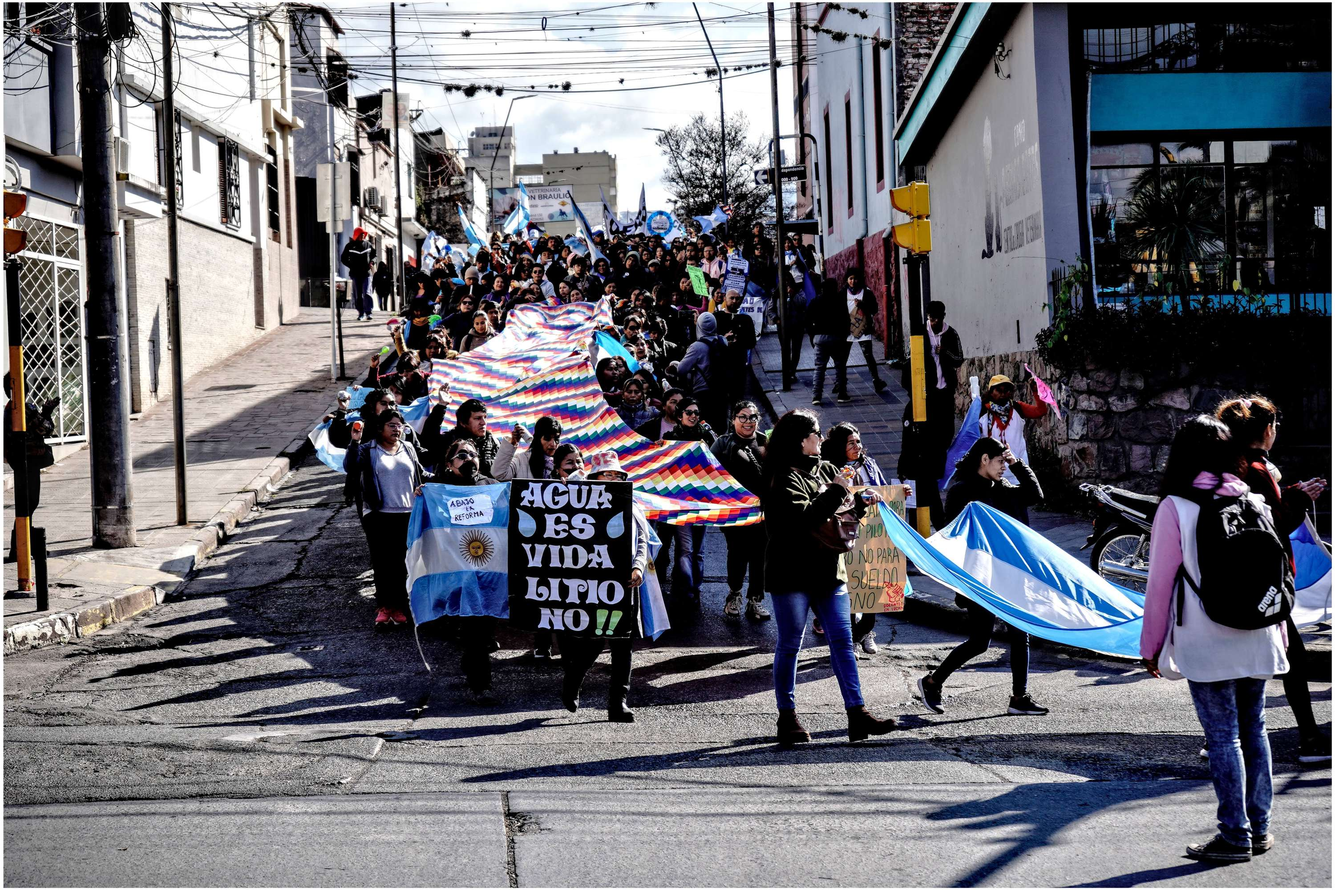
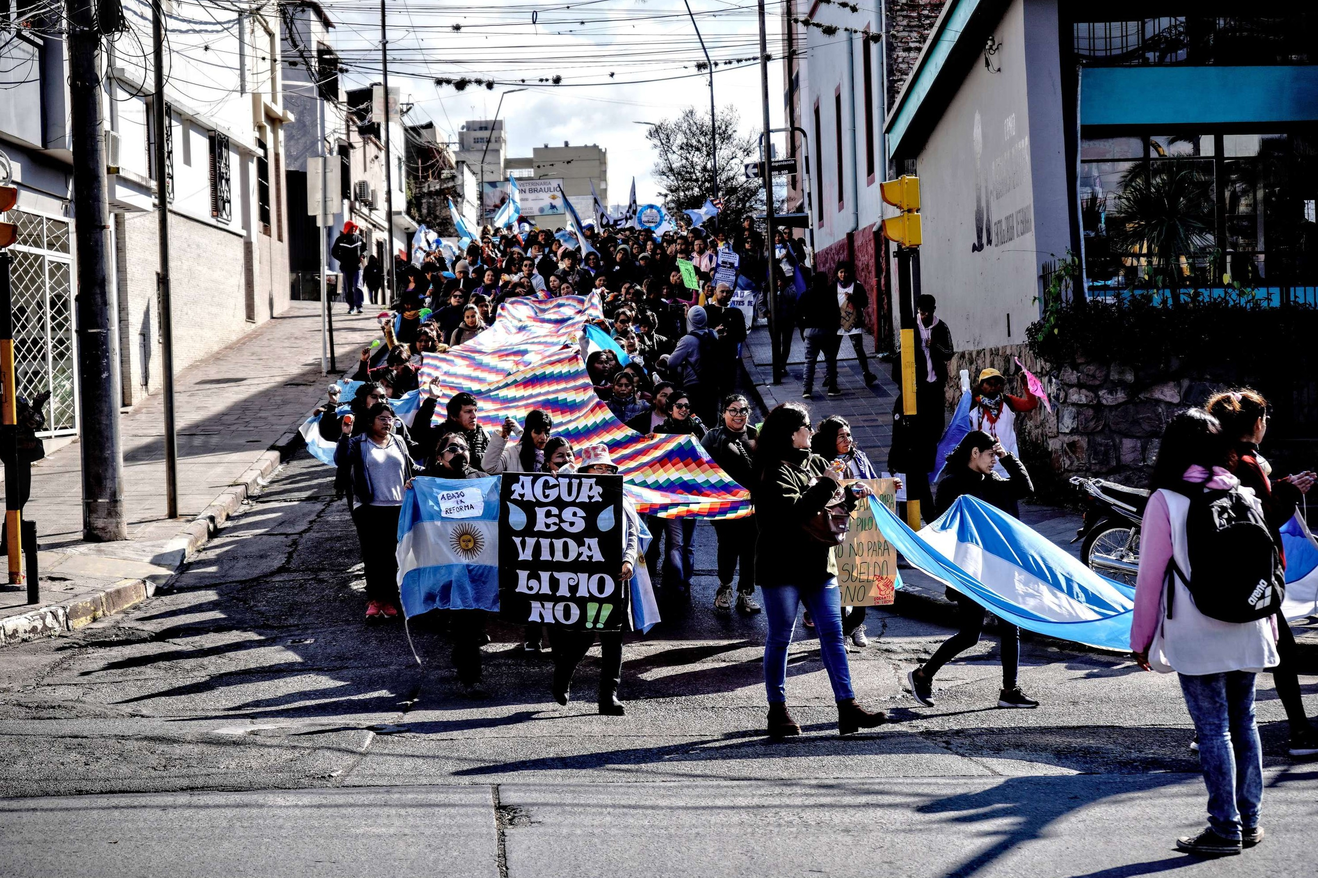
sumo las fotos faltantes

diff --git a/gallery/gallery01/index.html b/gallery/gallery01/index.html
@@ -4,7 +4,7 @@ title: "album"
 description: "masonry"
 active: gallery
 header-img: "img/gallery-bg.jpg"
-album-title: "my 1st album"
+album-title: "Jujuy de pie"
 images:
  - image_path: /gallery/archive/g01/juj01.jpg
    caption: Las salinas de la Puna, una fuente de vida para los pueblos andinos - Puna's salty lakes, a source of life for the andean peoples - Salinas Grandes, 30-07-2023
@@ -71,7 +71,7 @@ images:
    caption: La sal es un filo inmaculado en la planicie encajonada entre los Andes - Salt is an immaculate blade on the plain cradled by the Andes - Santuario de Tres Cruces, 30-07-2023
    copyright: © R. Lisandro Amado
  - image_path: /gallery/archive/g01/juj22.jpg
-   caption: La sal se junta anualmente en pequeñas mesetas que se llevan en camiones para salar los alimentos del mundo. En estos días, "alimenta" también a la electrónica que mueve nuestro "mundo" - Salt is annualy amounted in small plateaus that are shipped in trucks to salt world's food. Nowadays, it "feeds" too the electronics moving our "world" - Salinas Grandes, 30-07-2023
+   caption: La sal se junta anualmente en pequeñas mesetas que se cosechan para salar los alimentos del mundo. En estos días, "alimenta" también a la electrónica que mueve nuestro "mundo" - Salt is annualy amounted in small plateaus that are harvested to salt world's food. Nowadays, it "feeds" too the electronics moving our "world" - Salinas Grandes, 30-07-2023
    copyright: © R. Lisandro Amado
  - image_path: /gallery/archive/g01/juj23.jpg
    caption: La ganadería de llamas es la base de la alimentación y de la economía puneña - Llama herding is the basis of both food and economy in Puna - Rinconada, 28-04-2022
@@ -79,11 +79,17 @@ images:
  - image_path: /gallery/archive/g01/juj24.jpg
    caption: Los vientos contantes crean misteriosas formaciones de arcilla - Constant winds create intrigant clay formations - Cusi Cusi, 07-08-2023
    copyright: © R. Lisandro Amado
- - image_path: /gallery/archive/g01/juj24.jpg
-   caption: Los docentes de Jujuy marchan y tocan musica tradicional en protesta contra los recortes presupuestarios - Jujuy' teachers march and play traditional music as they protest against budget cuts - San Salvador de Jujuy, 27-07-2023
-   copyright: © R. Lisandro Amado
  - image_path: /gallery/archive/g01/juj25.jpg
    caption: Los docentes de Jujuy marchan y tocan musica tradicional en protesta contra los recortes presupuestarios - Jujuy' teachers march and play traditional music as they protest against budget cuts - San Salvador de Jujuy, 27-07-2023
+   copyright: © R. Lisandro Amado
+ - image_path: /gallery/archive/g01/juj26.jpg
+   caption: Docentes marchan en apoyo a los pueblos originarios - "Water is life, Lithium not!" reads the banner held by a marching teacher - San Salvador de Jujuy, 27-07-2023
+   copyright: © R. Lisandro Amado
+ - image_path: /gallery/archive/g01/juj27.jpg
+   caption: Los pueblos originarios marcharon desde Jujuy hasta Buenos Aires, en el "Malón de la Paz" - In "Malón of peace", indigenous people marched from Jujuy to Buenos Aires - San Salvador de Jujuy, 25-07-2023
+   copyright: © R. Lisandro Amado
+ - image_path: /gallery/archive/g01/juj28.jpg
+   caption: Jujuy de pie - "Jujuy stands up" - San Salvador de Jujuy, 31-07-2023
    copyright: © R. Lisandro Amado
 ---
 
